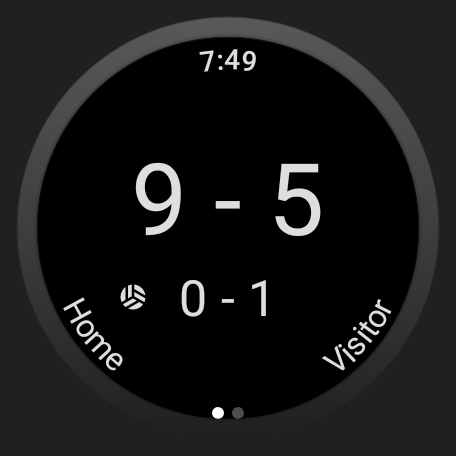
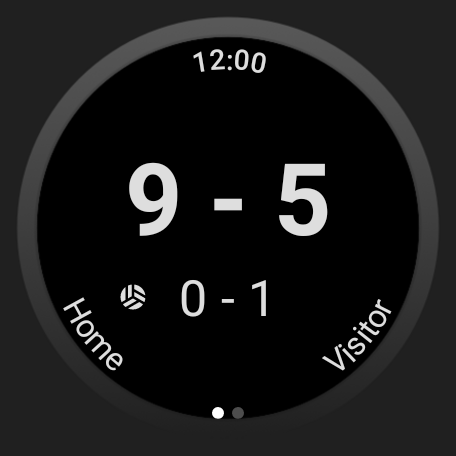
feat: bold score text (#2)
* feat: make score text bold

* chore(readme): update images

diff --git a/app/src/main/java/volleyballscore/components/ScoreCounter.kt b/app/src/main/java/volleyballscore/components/ScoreCounter.kt
@@ -6,6 +6,7 @@ import androidx.compose.runtime.Composable
 import androidx.compose.runtime.snapshots.SnapshotStateList
 import androidx.compose.ui.Alignment
 import androidx.compose.ui.Modifier
+import androidx.compose.ui.text.font.FontWeight
 import androidx.compose.ui.text.style.TextAlign
 import androidx.compose.ui.unit.sp
 import androidx.wear.compose.material.Text
@@ -22,17 +23,20 @@ fun ScoreCounter(modifier: Modifier, scoreCount: SnapshotStateList<List<Int>>) {
                 .weight(1f),
             textAlign = TextAlign.Right,
             fontSize = 50.sp,
+            fontWeight = FontWeight.Bold,
             text = "${scoreCount.last()[0]}",
         )
         Text(
             textAlign = TextAlign.Center,
             fontSize = 50.sp, text = " - ",
+            fontWeight = FontWeight.Bold,
         )
         Text(
             modifier = Modifier
                 .weight(1f),
             textAlign = TextAlign.Left,
             fontSize = 50.sp,
+            fontWeight = FontWeight.Bold,
             text = "${scoreCount.last()[1]}",
         )
     }
